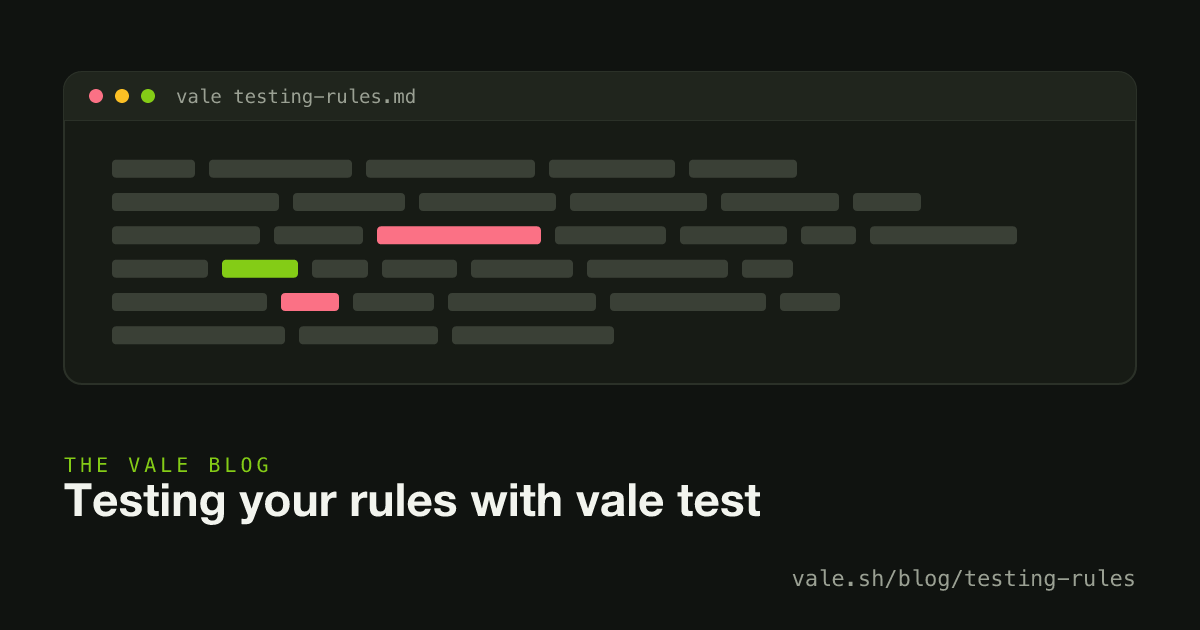
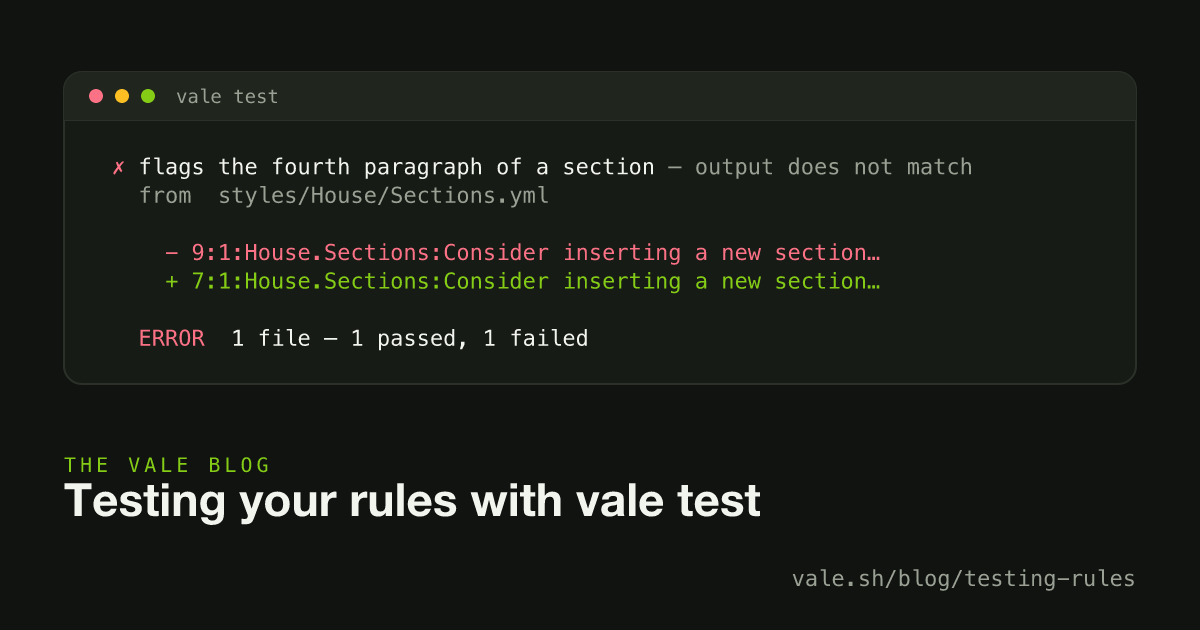
Cover every `vale test` key, with formats and Views, in the docs and post

Changed region(s): [[0.0925, 0.2413, 0.8633, 0.573], [0.2467, 0.1508, 0.3392, 0.181]]

diff --git a/src/lib/components/PostBanner.svelte b/src/lib/components/PostBanner.svelte
@@ -28,6 +28,7 @@
 		// 'manuscript': a paper's headings as the sections a rule is scoped to.
 		// 'compass': the four kinds of documentation on their two axes.
 		// 'spelling': three markup files, prose lit and code dark, one alert each.
+		// 'test': a failing `vale test` case, expected against actual.
 		motif?: string;
 		alt?: string;
 		class?: string;
@@ -156,6 +157,35 @@
 		{ text: 'Signed-off-by: Jane Doe <jane@example.com>', part: 'named' }
 	];
 
+	// The 'test' motif: a failing `vale test` case, from the post's script
+	// example. Each line is runs of text colored the way the terminal shows
+	// them; the card in script/build-og.mjs draws the same lines.
+	type TestRun = { text: string; tone: 'fail' | 'name' | 'muted' | 'got' };
+
+	const testLines: TestRun[][] = [
+		[
+			{ text: '✗ ', tone: 'fail' },
+			{ text: 'flags the fourth paragraph of a section', tone: 'name' },
+			{ text: ' — output does not match', tone: 'muted' }
+		],
+		[{ text: '  from  styles/House/Sections.yml', tone: 'muted' }],
+		[],
+		[{ text: '    - 9:1:House.Sections:Consider inserting a new section…', tone: 'fail' }],
+		[{ text: '    + 7:1:House.Sections:Consider inserting a new section…', tone: 'got' }],
+		[],
+		[
+			{ text: '  ERROR', tone: 'fail' },
+			{ text: '  1 file — 1 passed, 1 failed', tone: 'name' }
+		]
+	];
+
+	const toneClass = {
+		fail: 'text-rose-500 dark:text-rose-400',
+		name: 'text-foreground',
+		muted: 'text-muted-foreground',
+		got: 'text-lime-600 dark:text-lime-400'
+	};
+
 	// The 'manuscript' motif: a paper as the section rules read it. Real
 	// text, because the headings are the point: each opens a section a rule
 	// can be scoped to, and two alerts sit where a checklist item is missing
@@ -261,7 +291,9 @@
 							? 'vale docs/'
 							: motif === 'spelling'
 								? 'vale docs/'
-								: `vale ${seed}.md`
+								: motif === 'test'
+									? 'vale test'
+									: `vale ${seed}.md`
 	);
 </script>
 
@@ -365,6 +397,17 @@
 									<span class="text-rose-400">{line.alert}</span>
 								</span>
 							{/if}
+						</div>
+					{/each}
+				</div>
+			{:else if motif === 'test'}
+				<div
+					class="flex min-h-0 flex-1 flex-col justify-center overflow-hidden px-4 py-2 font-mono text-[10px] leading-[1.6] sm:text-[11px]"
+				>
+					{#each testLines as runs, i (i)}
+						<div class="truncate whitespace-pre">
+							{#each runs as run, j (j)}<span class={toneClass[run.tone]}>{run.text}</span
+								>{:else}{' '}{/each}
 						</div>
 					{/each}
 				</div>

diff --git a/src/posts/testing-rules.md b/src/posts/testing-rules.md
@@ -4,7 +4,8 @@ description: 'Keep test cases beside your rules, script rules included, and run 
 date: '2026-10-01'
 draft: true
 tags: ['tutorials']
-imageAlt: 'A terminal window of placeholder prose with a few spans highlighted.'
+motif: 'test'
+imageAlt: 'A failing vale test case: the expected alert at line 9 against the actual one at line 7.'
 ---
 
 A Vale rule is a small program, and it fails in an unusual way: when it matches nothing, it loads, runs, and reports success. While writing [Voices](/blog/voices), I found three rules that had never fired. One used a `raw` list that joins its entries instead of alternating them, one had a formula that named a variable that didn't exist, and one had tokens written in the infinitive that never matched the past tense. Every run was clean, because none of them could find anything.
@@ -15,7 +16,7 @@ Vale v3.24.0 adds `vale test`, which runs test cases you keep beside your rules.
 
 ## Cases beside the rule
 
-A rule can carry its own cases under `tests`. Each case is a short document and the alerts linting it should produce:
+A rule can carry its own cases under `tests`. Each case has a `name`, an `input` document, and the alerts linting it should produce:
 
 ```yaml
 # styles/House/Hedging.yml
@@ -39,7 +40,7 @@ tests:
 
 ```console
 $ vale test
- SUCCESS  2 files — 4 passed, 0 failed
+ SUCCESS  1 file — 2 passed, 0 failed
 ```
 
 When a case fails, `vale test` shows what it expected against what came back:
@@ -55,13 +56,71 @@ When a case fails, `vale test` shows what it expected against what came back:
     - expected   + actual
 ```
 
-`want` pins the exact output, and an empty one asserts that there are no alerts. When the message or column doesn't matter, `contains` checks for an excerpt and `absent` checks that something isn't there. Cases can also live in a separate file ending in `.test.yml`, as a list.
+## Three ways to assert
+
+`want` pins the exact output, one `line:column:Check:message` per line, and an empty `want` asserts that there are no alerts at all. That's often more than you mean to pin, though: a case about which text a rule matches shouldn't break when you reword its message. `contains` checks for an excerpt of the output, or a list of them, and `absent` checks that something isn't there. A case needs at least one of the three; one that asserts nothing would pass whatever the rule does, so `vale test` refuses to run it.
+
+Cases can also live in a separate file ending in `.test.yml`, as a list. This one uses the rest of the keys:
+
+````yaml
+# styles/House/Hedging.test.yml
+- name: flags every hedge in a sentence
+  about: Both tokens, so neither one can be dropped from the list unnoticed.
+  rule: Hedging.yml
+  input: Perhaps it seems fine.
+  contains:
+    - "'Perhaps'"
+    - "'it seems'"
+
+- name: reStructuredText
+  rule: Hedging.yml
+  format: rst
+  input: |
+    Perhaps
+    =======
+  contains: House.Hedging
+
+- name: code is never prose
+  about: Run through the project's .vale.ini, as a real document would be.
+  input: |
+    ```
+    perhaps
+    ```
+  absent: House.Hedging
+````
+
+`about` is a note for whoever reads the case next: why it exists, or the issue it came from. It's never checked. `format` reads the input as another format, here reStructuredText, which is parsed the way a `.rst` file would be. That means it needs `rst2html`, just as a lint run does.
 
 ## One rule, or the whole project
 
-A case under a rule's `tests` is _isolated_: it runs that rule and nothing else, not the rest of the style and not your `.vale.ini`. It answers the question "what does this rule match?"
+A case under a rule's `tests` is _isolated_: it runs that rule and nothing else, not the rest of the style and not your `.vale.ini`. A `.test.yml` case is isolated when it names a `rule`, a path relative to the test file. An isolated case answers the question "what does this rule match?"
 
-A case in a `.test.yml` that doesn't name a rule runs through your project's configuration instead, with its sections, scopes, and `MinAlertLevel`. That answers a different question: "does this rule reach real documents?" A rule can pass every isolated case and still never run, because a section turns it off or a `SkippedScopes` entry hides the text it's looking for. You want both kinds.
+A `.test.yml` case that doesn't name a rule, like the last one above, runs through your project's configuration instead, with its sections, scopes, and `MinAlertLevel`. That answers a different question: "does this rule reach real documents?" A rule can pass every isolated case and still never run, because a section turns it off or a `SkippedScopes` entry hides the text it's looking for. You want both kinds.
+
+## Rules scoped to a View
+
+The last key is `view`. A [View](https://docs.vale.sh/topics/views) names the pieces of a file that has no markup, such as the subject and body of a commit message, and a rule can be scoped to one of them. An isolated case loads nothing from the project, including its Views, so a rule scoped to `subject` would see nothing. `view` names the View to read the input through:
+
+```yaml
+# styles/House/SubjectPeriod.yml
+extends: existence
+message: "A subject doesn't end with a period."
+level: error
+scope: subject
+nonword: true
+raw:
+  - '\.$'
+tests:
+  - name: fires on the subject
+    format: COMMIT_EDITMSG
+    view: Commit
+    input: |
+      Fix the thing.
+
+      The body can end with a period.
+    want: |
+      1:14:House.SubjectPeriod:A subject doesn't end with a period.
+```
 
 ## Testing script rules
 
@@ -122,7 +181,7 @@ $ vale test --coverage
 
     House.Silent
 
-  ERROR   2 files — 4 passed, 0 failed, 1 uncovered
+  ERROR   2 files — 5 passed, 0 failed, 1 uncovered
 ```
 
 ## Packages that build on packages
@@ -139,4 +198,4 @@ The styles I maintain now carry about 1,280 cases between them: Std, Voices, Jou
 - run: vale test --coverage styles
 ```
 
-The [Testing](https://docs.vale.sh/topics/testing) page has the full list of case keys, including `format`, for linting a case as reStructuredText or AsciiDoc, and `view`, for a rule scoped to part of a [View](https://docs.vale.sh/topics/views).
+The [Testing](https://docs.vale.sh/topics/testing) page has the reference for every key and exit code.

diff --git a/docs/topics/testing.md b/docs/topics/testing.md
@@ -10,7 +10,7 @@ A rule is a small program, and a rule that matches nothing fails silently: it lo
 
 ```console
 $ vale test
- SUCCESS  2 files — 4 passed, 0 failed
+ SUCCESS  2 files — 5 passed, 0 failed
 ```
 
 ## [Writing cases](testing.md#writing-cases)
@@ -41,19 +41,29 @@ Or a file ending in `.test.yml` holds a list of them:
 
 ````yaml
 # styles/House/Hedging.test.yml
-- name: in a project run, a fence stays silent
+- name: flags every hedge in a sentence
+  about: Both tokens, so neither one can be dropped from the list unnoticed.
+  rule: Hedging.yml
+  input: Perhaps it seems fine.
+  contains:
+    - "'Perhaps'"
+    - "'it seems'"
+
+- name: reStructuredText
+  rule: Hedging.yml
+  format: rst
+  input: |
+    Perhaps
+    =======
+  contains: House.Hedging
+
+- name: code is never prose
+  about: Run through the project's .vale.ini, as a real document would be.
   input: |
     ```
     perhaps
     ```
   absent: House.Hedging
-- name: reStructuredText
-  rule: Hedging.yml
-  format: rst
-  input: It seems fine.
-  contains:
-    - House.Hedging
-    - "'It seems'"
 ````
 
 | Key        | Description                                                                                                                    |
@@ -68,7 +78,36 @@ Or a file ending in `.test.yml` holds a list of them:
 | `contains` | Text, or a list of texts, that the alerts must include.                                                                        |
 | `absent`   | Text, or a list of texts, that the alerts must not include.                                                                    |
 
-Every case needs at least one of `want`, `contains`, or `absent`. A case that asserts nothing passes whatever the rule does, so Vale refuses to run it.
+Every case needs at least one of `want`, `contains`, or `absent`. A case that asserts nothing passes whatever the rule does, so Vale refuses to run it. Use `want` when the exact output matters, `contains` when only some of it does, such as which rule fired or which text it matched, and `absent` to pin down what a rule must leave alone. `about` is for the reader: why the case exists, or the issue it came from.
+
+### [Formats](testing.md#formats)
+
+A case is read as Markdown unless its `format` names another extension, and it's parsed the way a file of that format would be. A reStructuredText or AsciiDoc case needs the same tools a lint run of that format does, `rst2html` or `asciidoctor`. Any extension works, including one a [View](views.md) is attached to, such as `COMMIT_EDITMSG`.
+
+### [Views](testing.md#views)
+
+A rule scoped to one of a View's pieces, such as `subject`, sees nothing in an isolated case, since an isolated case loads nothing from the project, including its Views. `view` names the View to read `input` through, from `config/views` on the `StylesPath`:
+
+```yaml
+# styles/House/SubjectPeriod.yml
+extends: existence
+message: "A subject doesn't end with a period."
+level: error
+scope: subject
+nonword: true
+raw:
+  - '\.$'
+tests:
+  - name: fires on the subject
+    format: COMMIT_EDITMSG
+    view: Commit
+    input: |
+      Fix the thing.
+
+      The body can end with a period.
+    want: |
+      1:14:House.SubjectPeriod:A subject doesn't end with a period.
+```
 
 ## [Isolated and project cases](testing.md#isolated-and-project-cases)
 
@@ -101,7 +140,7 @@ $ vale test
 
     - expected   + actual
 
-  ERROR   2 files — 3 passed, 1 failed
+  ERROR   2 files — 4 passed, 1 failed
 ```
 
 `--output=JSON` prints the same results as JSON, with each failure's `reason`, `got`, and `want`.
@@ -117,7 +156,7 @@ $ vale test --coverage
 
     House.Silent
 
-  ERROR   2 files — 4 passed, 0 failed, 1 uncovered
+  ERROR   2 files — 5 passed, 0 failed, 1 uncovered
 ```
 
 ## [Script rules](testing.md#script-rules)
